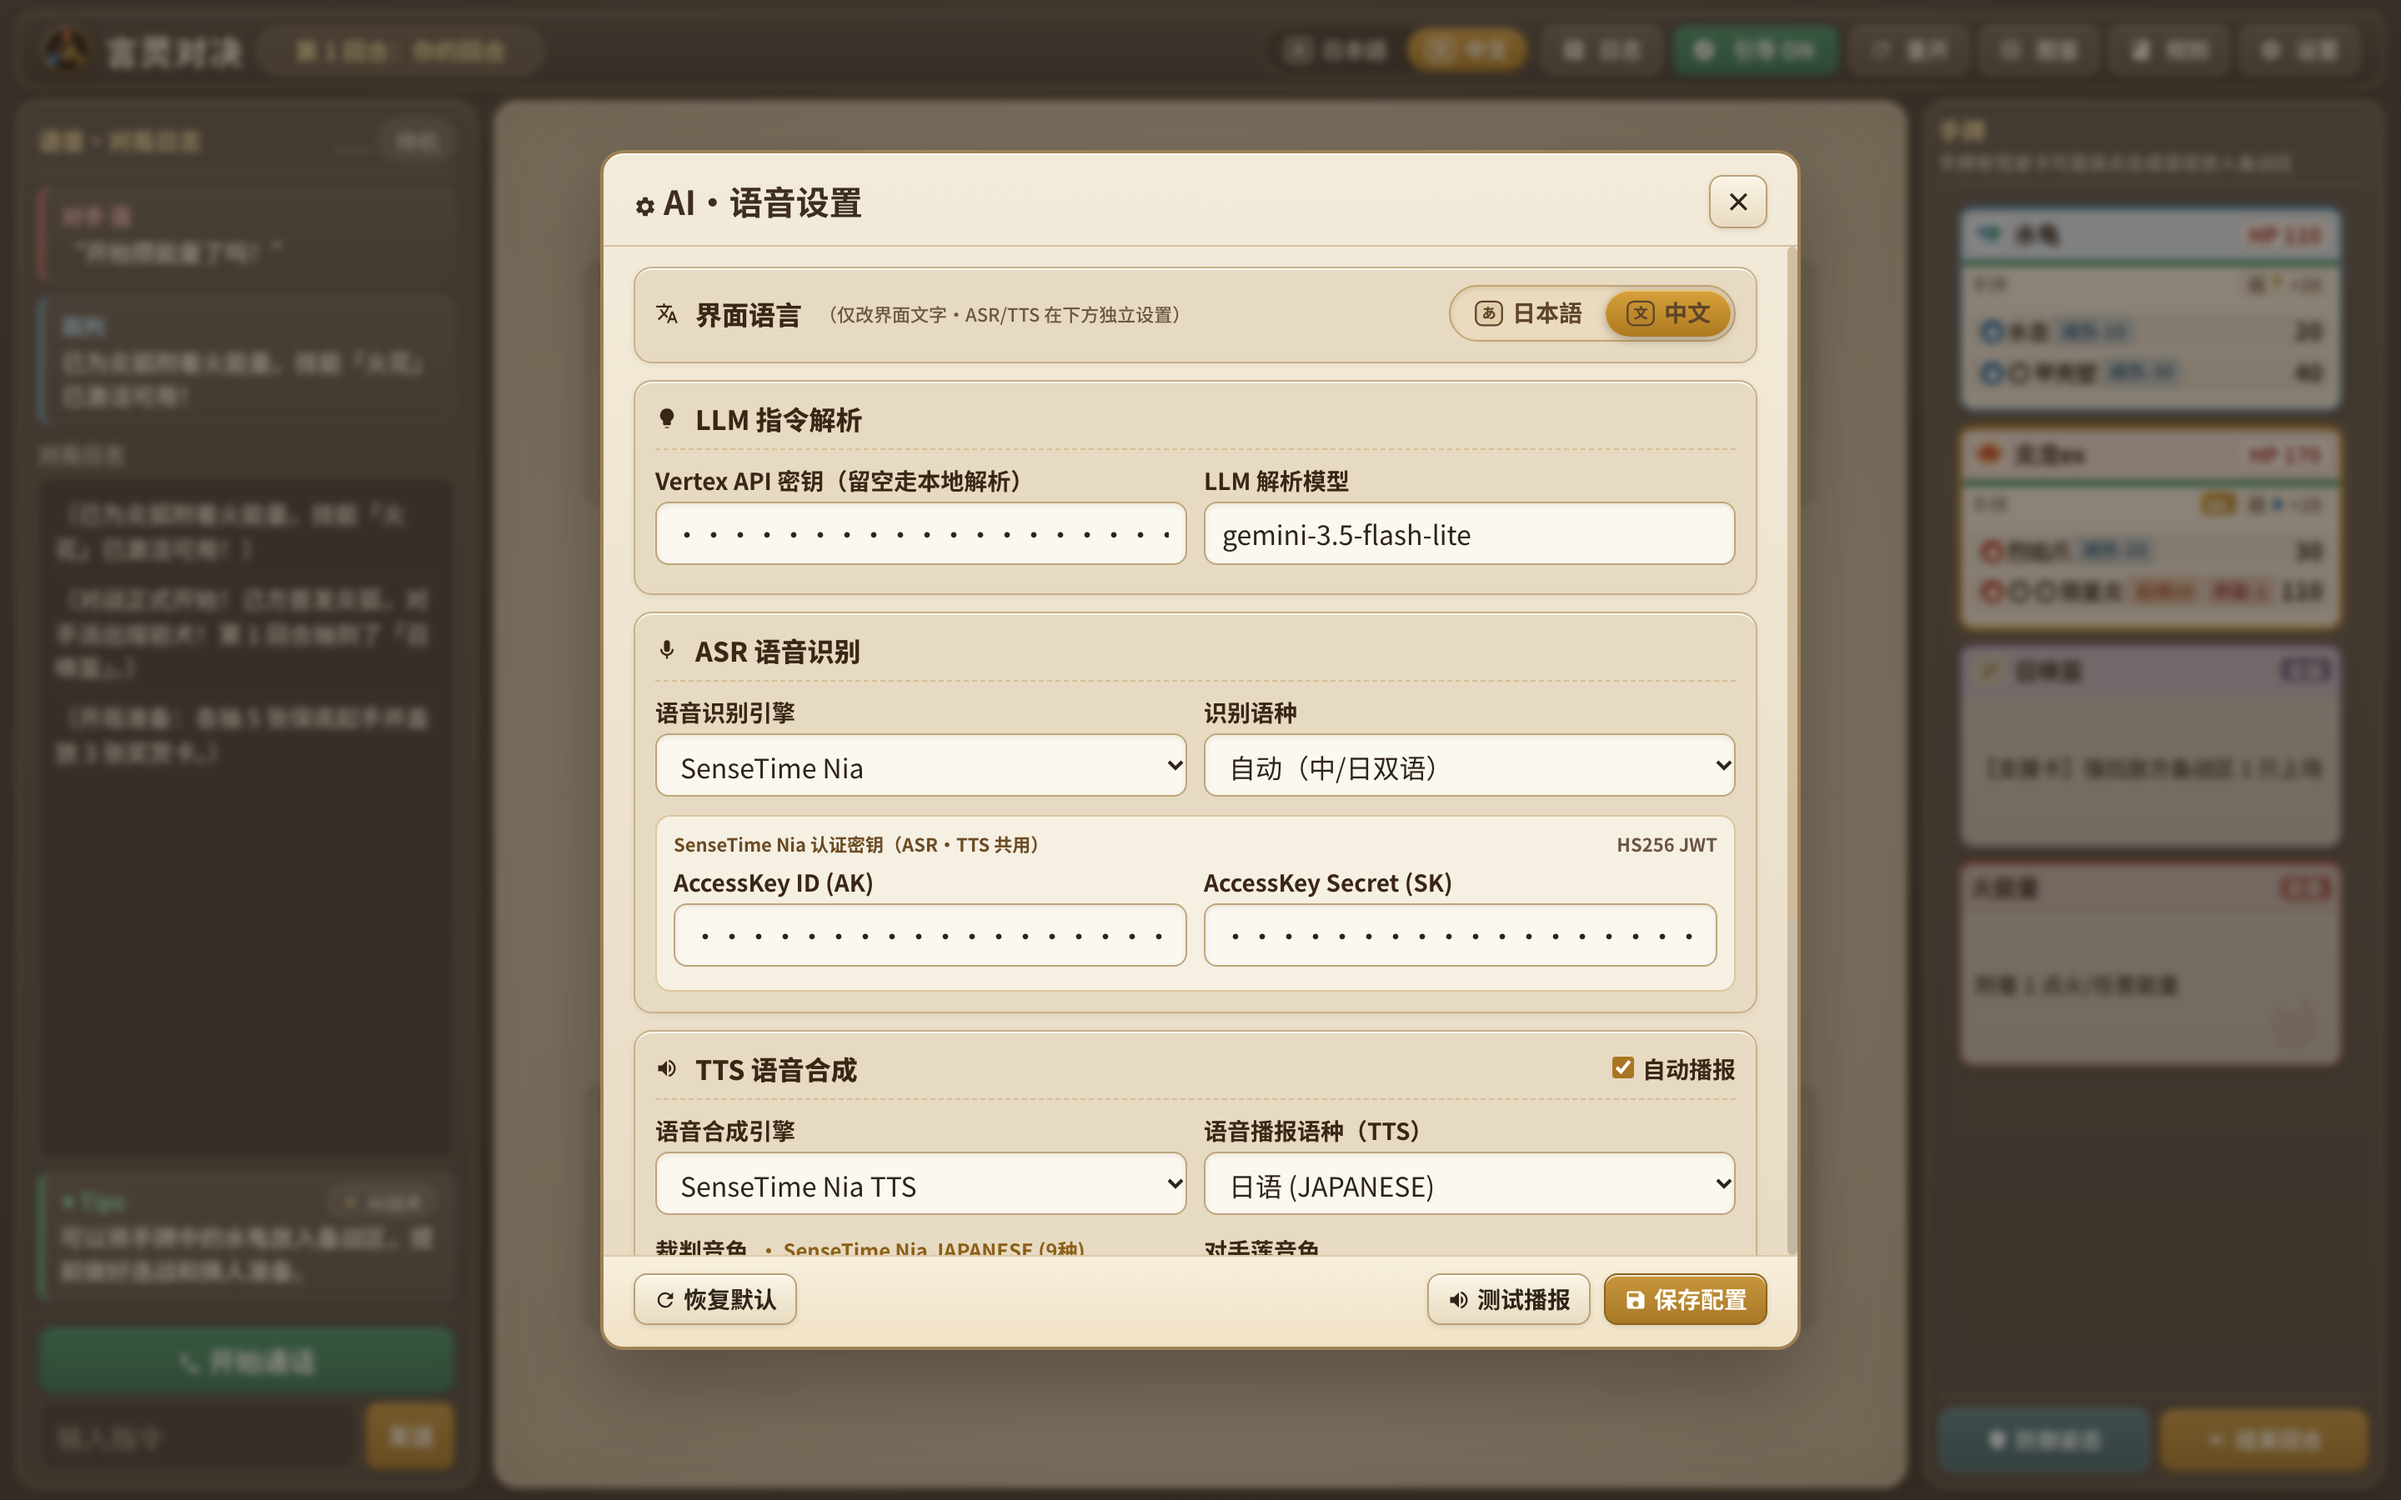
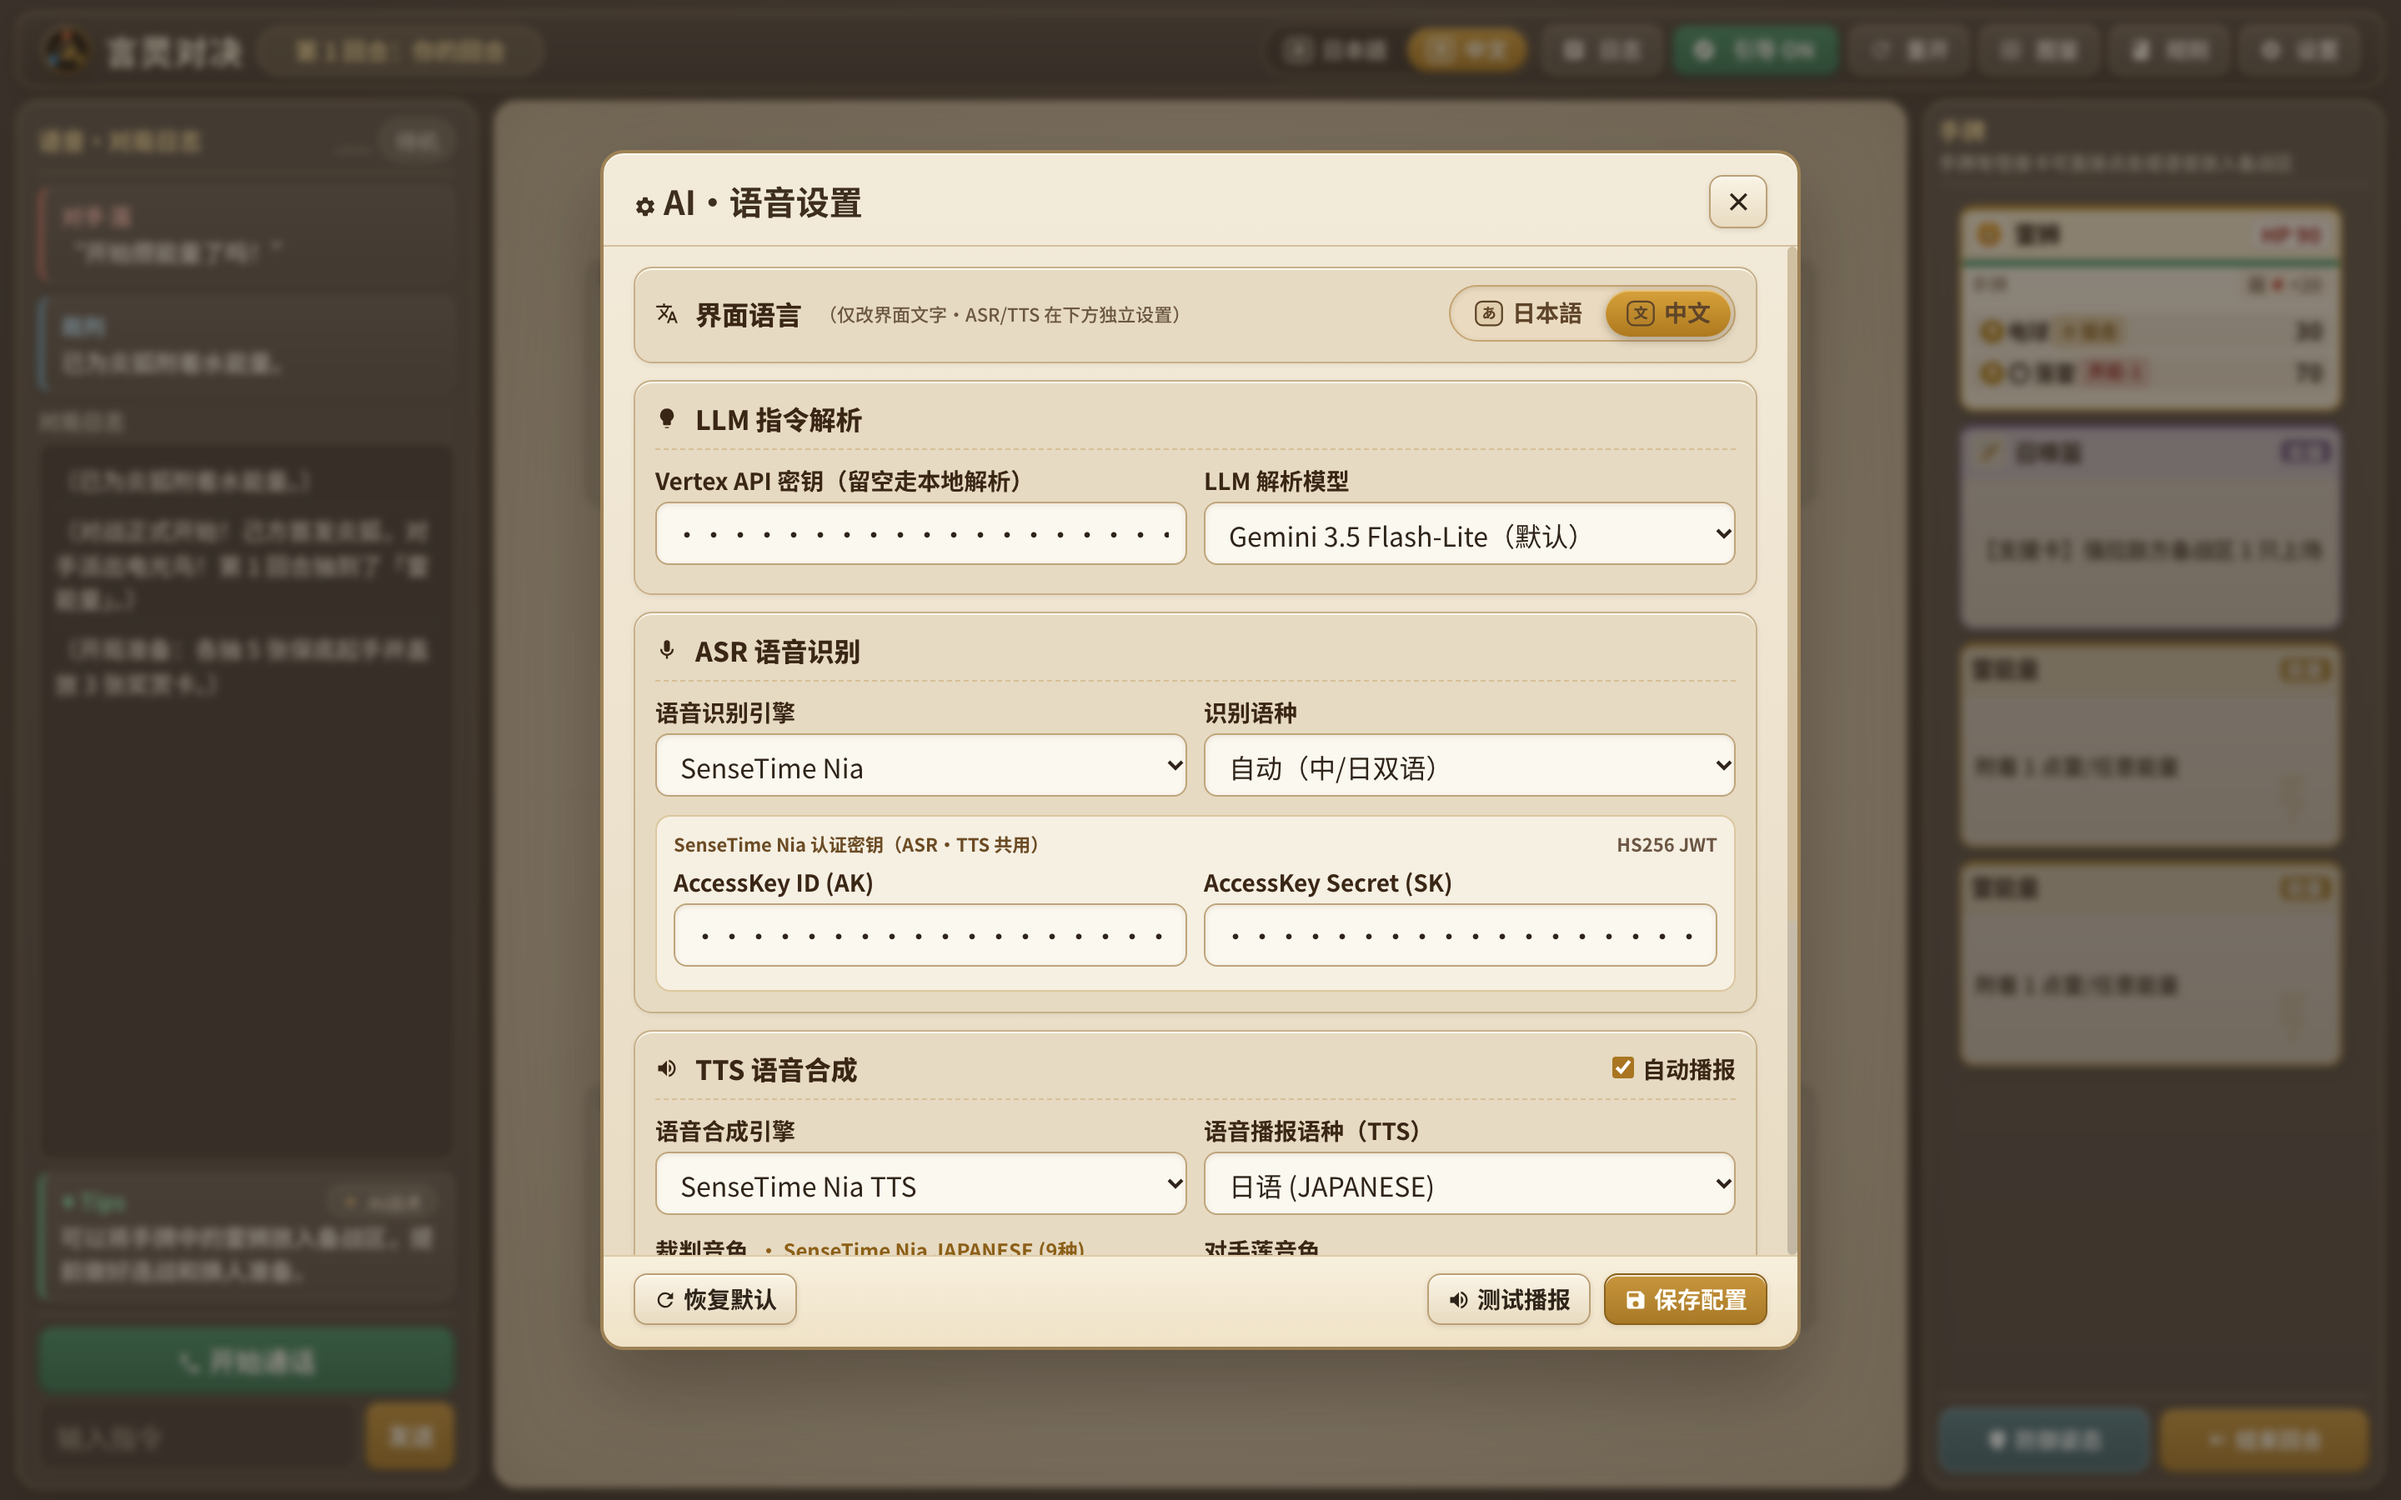
feat(settings): add LLM model selector (3.5-flash-lite / 3.8-flash low) with auto maxOutputTokens

diff --git a/app.js b/app.js
@@ -570,10 +570,11 @@
         "male_wanzhou", "male_xiaobei", "male_xiaoyang", "male_xuanzhao", "male_yian", "male_yunzheng"
       ]);
       const VALID_DIFF = new Set(["normal", "hard"]);
+      const VALID_LLM_MODELS = new Set(["gemini-3.5-flash-lite", "gemini-3.8-flash"]);
       if (VALID_UI_LANG.has(src.uiLang)) out.uiLang = src.uiLang;
       if (VALID_UI_LANG.has(src.ttsLang)) out.ttsLang = src.ttsLang;
       if (typeof src.apiKey === "string") out.apiKey = src.apiKey.trim();
-      if (typeof src.llmModel === "string" && src.llmModel.trim()) out.llmModel = src.llmModel.trim();
+      if (typeof src.llmModel === "string" && VALID_LLM_MODELS.has(src.llmModel.trim())) out.llmModel = src.llmModel.trim();
       if (typeof src.ttsModel === "string" && src.ttsModel.trim()) out.ttsModel = src.ttsModel.trim();
       if (typeof src.niaAk === "string") out.niaAk = src.niaAk.trim();
       if (typeof src.niaSk === "string") out.niaSk = src.niaSk.trim();
@@ -597,7 +598,6 @@
       if (typeof src.autoSpeak === "boolean") out.autoSpeak = src.autoSpeak;
       if (typeof src.guideMode === "boolean") out.guideMode = src.guideMode;
       if (typeof src.kotodamaResonance === "boolean") out.kotodamaResonance = src.kotodamaResonance;
-      if (/^gemini-2\.5-(flash|pro)/i.test(out.llmModel)) out.llmModel = DEFAULT_CONFIG.llmModel;
       return out;
     },
 
@@ -749,6 +749,15 @@
       if (/3\.[156].*flash|gemini-3-flash/.test(m)) return { thinkingLevel: "MINIMAL" };
       if (/3\.[78]|gemini-4/.test(m)) return { thinkingLevel: "LOW" };
       return null;
+    },
+
+    /** 根据模型思考档位与调用场景自动计算合适的 maxOutputTokens（避免 LOW 思考占用配额导致 JSON 截断） */
+    buildMaxOutputTokens(model, kind = "nlu") {
+      const thinkCfg = this.buildThinkingConfig(model);
+      const isLowThink = Boolean(thinkCfg && thinkCfg.thinkingLevel && thinkCfg.thinkingLevel !== "MINIMAL");
+      if (kind === "probe") return isLowThink ? 128 : 2;
+      if (kind === "tip") return isLowThink ? 1024 : 320;
+      return isLowThink ? 1024 : 260;
     },
 
     /** 构建 Vertex generateContent 接口地址（密钥通过请求头 x-goog-api-key 传递，不暴露在 URL 中） */
@@ -4532,7 +4541,7 @@
       if (!url) return;
       const ac = typeof AbortController !== "undefined" ? new AbortController() : null;
       const timer = ac ? setTimeout(() => ac.abort(), 4500) : null;
-      const genCfg = { maxOutputTokens: 2 };
+      const genCfg = { maxOutputTokens: ConfigManager.buildMaxOutputTokens(cfg.llmModel, "probe") };
       const thinkCfg = ConfigManager.buildThinkingConfig(cfg.llmModel);
       if (thinkCfg) genCfg.thinkingConfig = thinkCfg;
       try {
@@ -5327,19 +5336,20 @@
         parts.push({ text: `発話:「${text}」${hintLine}` });
       }
 
+      const thinkCfg = ConfigManager.buildThinkingConfig(cfg.llmModel);
       const genCfg = {
         responseMimeType: "application/json",
         temperature: 0.1,
-        maxOutputTokens: 260
+        maxOutputTokens: ConfigManager.buildMaxOutputTokens(cfg.llmModel, "nlu")
       };
-      const thinkCfg = ConfigManager.buildThinkingConfig(cfg.llmModel);
       if (thinkCfg) genCfg.thinkingConfig = thinkCfg;
 
       const t0 = Date.now();
       const ac = typeof AbortController !== "undefined" ? new AbortController() : null;
       if (ac && typeof BattleEngine !== "undefined") BattleEngine.activeAbortCtrl = ac;
       let timedOut = false;
-      const fetchTimer = ac ? setTimeout(() => { timedOut = true; ac.abort(); }, 8000) : null;
+      const timeoutMs = thinkCfg?.thinkingLevel === "LOW" ? 10000 : 8000;
+      const fetchTimer = ac ? setTimeout(() => { timedOut = true; ac.abort(); }, timeoutMs) : null;
       try {
         if (!this._cachedSysPrompt || this._cachedSysPromptSource !== SpecEngine.sourceLabel) {
           this._cachedSysPrompt = SpecEngine.buildSystemPrompt();
@@ -5373,7 +5383,7 @@
         if (VoiceEngine.apiAsrBlocked && cfg.asrMode === "gemini_audio") VoiceEngine.onOnlineApiRecovered();
         const parsed = this.safeParseJson(streamRes.text || "");
         if (usedAudioRescue) parsed._usedAudioRescue = true;
-        DebugLog.add("NLU", `Vertex ${cfg.llmModel}${streamRes.streamed ? " [SSE]" : ""} (${Date.now() - t0}ms, ${parsed.status})`, { transcript: parsed.transcript, actions: parsed.actions });
+        DebugLog.add("NLU", `Vertex ${cfg.llmModel}${thinkCfg?.thinkingLevel ? `/${thinkCfg.thinkingLevel}` : ""}${streamRes.streamed ? " [SSE]" : ""} (${Date.now() - t0}ms, maxTok=${genCfg.maxOutputTokens}, ${parsed.status})`, { transcript: parsed.transcript, actions: parsed.actions });
         return parsed;
       } catch (e) {
         const isUserCancelled = e?.name === "AbortError" && !timedOut;
@@ -10736,12 +10746,16 @@
         btn.classList.add("is-loading");
         btn.innerHTML = `${SVG_ICONS.hudSpinner}${escapeHtml(t("解析中…", "分析中…"))}`;
       }
+      const thinkCfg = ConfigManager.buildThinkingConfig(cfg.llmModel);
       const ac = typeof AbortController !== "undefined" ? new AbortController() : null;
-      const timer = ac ? setTimeout(() => ac.abort(), 8000) : null;
+      const tipTimeoutMs = thinkCfg?.thinkingLevel === "LOW" ? 10000 : 8000;
+      const timer = ac ? setTimeout(() => ac.abort(), tipTimeoutMs) : null;
       try {
         const snap = BattleEngine.getSnapshot();
-        const genCfg = { responseMimeType: "application/json" };
-        const thinkCfg = ConfigManager.buildThinkingConfig(cfg.llmModel);
+        const genCfg = {
+          responseMimeType: "application/json",
+          maxOutputTokens: ConfigManager.buildMaxOutputTokens(cfg.llmModel, "tip")
+        };
         if (thinkCfg) genCfg.thinkingConfig = thinkCfg;
         const jaEl = $("liveTipJa");
         const zhEl = $("liveTipZh");
@@ -11550,6 +11564,10 @@
         }
       }
     };
+    setOptMap("llmModel", {
+      "gemini-3.5-flash-lite": t("Gemini 3.5 Flash-Lite（標準）", "Gemini 3.5 Flash-Lite（默认）"),
+      "gemini-3.8-flash": t("Gemini 3.8 Flash（Low 思考）", "Gemini 3.8 Flash（Low 思考）")
+    });
     setOptMap("aiDifficulty", {
       normal: t("ふつう", "普通"),
       hard: t("むずかしい", "困难")
@@ -11814,7 +11832,7 @@
         : (niaLangVal === "zh" ? "zh-CN" : (getUiLang() === "ja" ? "ja-JP" : "zh-CN"));
       return {
         apiKey: ($("apiKey")?.value || "").trim(),
-        llmModel: ($("llmModel")?.value || "").trim(),
+        llmModel: $("llmModel")?.value || DEFAULT_CONFIG.llmModel,
         niaAk: ($("niaAk")?.value || "").trim(),
         niaSk: ($("niaSk")?.value || "").trim(),
         niaAsrLang: niaLangVal,

diff --git a/index.html b/index.html
@@ -3855,9 +3855,9 @@
       --fs-md: 13px;
       --fs-sm: 12px;
       --fs-xs: 10px;
-      --card-w: 206px;
+      --card-w: 214px;
       --card-h: 114px;
-      --side-w: calc(var(--card-w) + 42px);
+      --side-w: calc(var(--card-w) + 38px);
     }
     .topbar { flex-wrap: wrap; padding: 5px 10px; gap: 5px; }
     .top-actions { flex-wrap: wrap; gap: 4px; }
@@ -5567,7 +5567,10 @@
         </div>
         <div class="cfg-field">
           <label><span class="lang-ja">LLM モデル</span><span class="lang-zh">LLM 解析模型</span></label>
-          <input type="text" id="llmModel" />
+          <select id="llmModel">
+            <option value="gemini-3.5-flash-lite">Gemini 3.5 Flash-Lite（標準）</option>
+            <option value="gemini-3.8-flash">Gemini 3.8 Flash（Low 思考）</option>
+          </select>
         </div>
       </div>
     </div>
